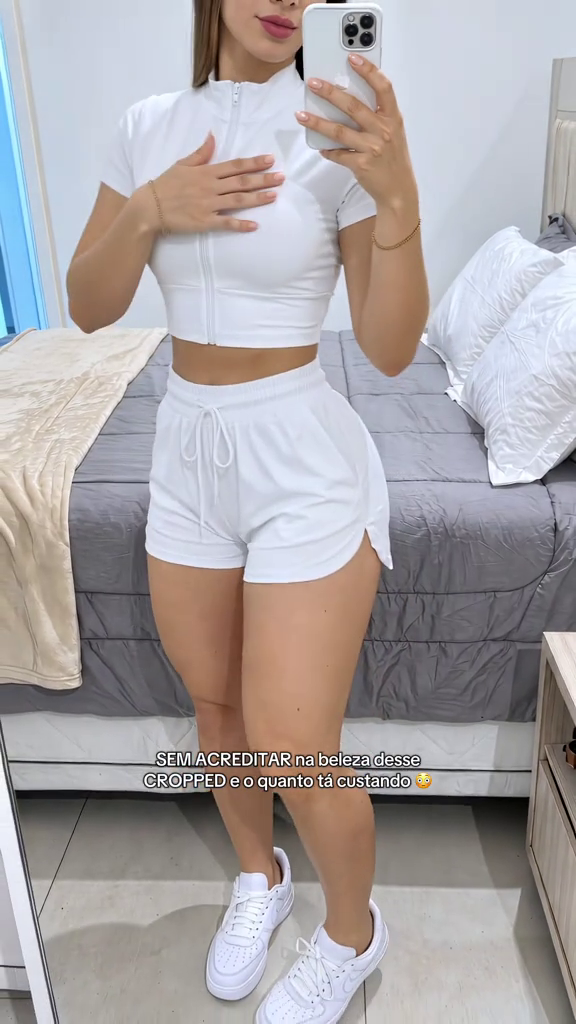
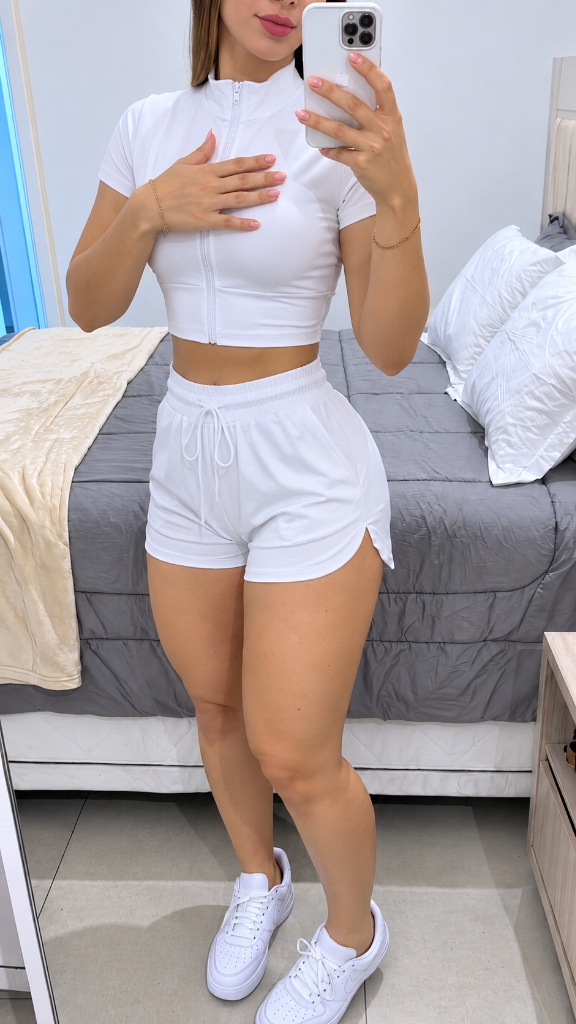
feat(anamaria): update model 3 to Duda Vip and add models 23 and 24 to gallery

diff --git a/src/anamaria/modelGalleryData.ts b/src/anamaria/modelGalleryData.ts
@@ -30,9 +30,9 @@ export const MODEL_GALLERY_ITEMS: AnaMariaModelItem[] = [
   {
     id: 'modelo_3_duda',
     number: 3,
-    name: 'Mestra Duda',
-    title: '03. Mestra Duda',
-    description: 'Silhueta delicada e feminina, cintura desenhada, quadris proporcionais e cabelos ondulados.',
+    name: 'Mestra Duda Vip',
+    title: '03. Mestra Duda Vip',
+    description: 'Silhueta delicada e feminina, cintura desenhada, quadris proporcionais e postura selfie no espelho.',
     file: '3.png',
     fullUrl: '/models/gallery/3.png',
   },
@@ -206,5 +206,23 @@ export const MODEL_GALLERY_ITEMS: AnaMariaModelItem[] = [
     description: 'Mulher madura autêntica e acolhedora (50+ anos), simpatia natural e biotipo real do cotidiano.',
     file: '22.png',
     fullUrl: '/models/gallery/22.png',
+  },
+  {
+    id: 'modelo_23_morena_cacheada',
+    number: 23,
+    name: 'Morena Cacheada',
+    title: '23. Morena Cacheada',
+    description: 'Cabelos escuros cacheados volumosos, olhar marcante, silhueta curvilínea e estilo urbano descontraído.',
+    file: '23.png',
+    fullUrl: '/models/gallery/23.png',
+  },
+  {
+    id: 'modelo_24_loira_fitness',
+    number: 24,
+    name: 'Loira Fitness',
+    title: '24. Loira Fitness',
+    description: 'Biotipo fitness atlético e tonificado, pernas e abdômen definidos, cabelos ondulados loiros e visual esportivo vibrante.',
+    file: '24.png',
+    fullUrl: '/models/gallery/24.png',
   },
 ];

diff --git a/src/anamaria/types.ts b/src/anamaria/types.ts
@@ -55,7 +55,7 @@ export interface AnaMariaFormState {
   selectedScenarioUrl?: string; // URL da imagem cheia
   selectedScenarioBase64?: string; // Base64 da imagem cheia para inpainting
   selectedModelGalleryId?: string; // ID da modelo escolhida no Item 10 (ex.: 'modelo_1_ana_maria')
-  selectedModelGalleryNumber?: number; // Número da modelo (1 a 22)
+  selectedModelGalleryNumber?: number; // Número da modelo (1 a 24)
   selectedModelGalleryUrl?: string; // URL da imagem da modelo
   selectedModelGalleryBase64?: string; // Base64 da imagem da modelo
   modelScenarioSource?: 'model' | 'gallery'; // Padrão: 'model' (cenário da própria modelo), 'gallery' (cenário da galeria de cenários)
